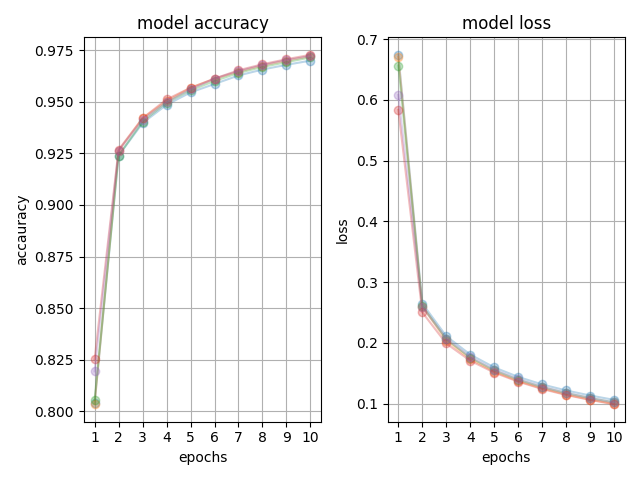
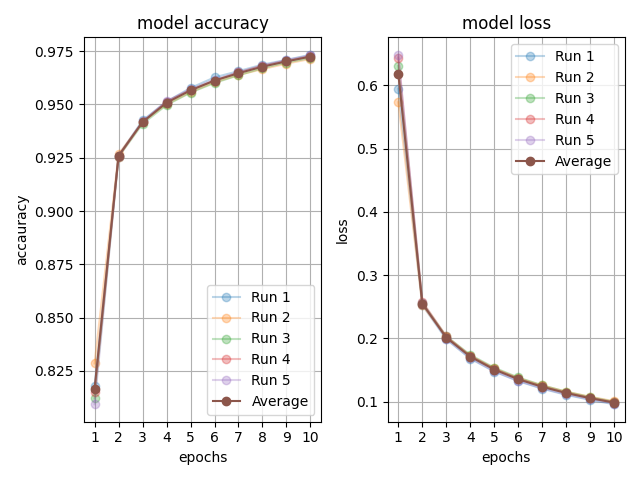
added benchmark of quacknet, pytorch and tensorflow

diff --git a/benchmarkFolder/MNISTBenchmark/MNISTBenchmark.py b/benchmarkFolder/MNISTBenchmark/MNISTBenchmark.py
@@ -1,0 +1,65 @@
+import matplotlib.pyplot as plt
+import numpy as np
+
+'''
+QuakNet:
+Mean accuaracy for QuackNet:
+[0.8214, 0.92508333, 0.94064167, 0.94961667, 0.9558,0.96025, 0.963675, 0.96654167, 0.969, 0.971125]
+
+Mean Loss for QuackNet:
+[0.60771607, 0.25617624, 0.20269678, 0.17275837, 0.15279125, 0.137877, 0.12608192, 0.11634947, 0.10815185, 0.10115307]
+
+
+Pytorch:
+Mean accuaracy for Pytorch:
+[53.59833333, 84.36466667, 88.71266667, 90.14666667, 90.99133333, 91.6, 92.11633333, 92.56966667, 92.99733333, 93.404]
+
+Mean Loss for Pytorch:
+[1.74560474, 0.58685295, 0.40313624, 0.34828176, 0.31788292, 0.29539778, 0.27666921, 0.26018988, 0.24526424, 0.23154016]
+
+
+Tensorflow:
+Mean Accuracy for Tensorflow:
+[77.44799971580505, 89.68966603279114, 91.2766683101654, 92.22633361816406, 92.93066620826721, 93.507000207901, 93.97866725921631, 94.3886661529541, 94.75233316421509, 95.05100011825562]
+
+Mean Loss for Tensorflow: 
+[0.886668610572815, 0.36731502413749695, 0.30530876517295835, 0.2715087890625, 0.24702780246734618, 0.22744983732700347, 0.2110085219144821, 0.1968971699476242, 0.18457053303718568, 0.1736813634634018]
+'''
+
+meanAccuaracyQuackNet = [0.8214, 0.92508333, 0.94064167, 0.94961667, 0.9558,0.96025, 0.963675, 0.96654167, 0.969, 0.971125]
+meanLossQuackNet = [0.60771607, 0.25617624, 0.20269678, 0.17275837, 0.15279125, 0.137877, 0.12608192, 0.11634947, 0.10815185, 0.10115307]
+
+meanAccuaracyPytorch = [53.59833333, 84.36466667, 88.71266667, 90.14666667, 90.99133333, 91.6, 92.11633333, 92.56966667, 92.99733333, 93.404]
+meanLossPytorch = [1.74560474, 0.58685295, 0.40313624, 0.34828176, 0.31788292, 0.29539778, 0.27666921, 0.26018988, 0.24526424, 0.23154016]
+
+meanAccuaracyTensorflow = [77.44799971580505, 89.68966603279114, 91.2766683101654, 92.22633361816406, 92.93066620826721, 93.507000207901, 93.97866725921631, 94.3886661529541, 94.75233316421509, 95.05100011825562]
+meanLossTensorflow = [0.886668610572815, 0.36731502413749695, 0.30530876517295835, 0.2715087890625, 0.24702780246734618, 0.22744983732700347, 0.2110085219144821, 0.1968971699476242, 0.18457053303718568, 0.1736813634634018]
+
+epochs = list(range(1, 11))
+figure, axis = plt.subplots(1, 2)
+
+meanAccuaracyQuackNet = np.array(meanAccuaracyQuackNet) * 100
+
+axis[0].plot(epochs, meanAccuaracyQuackNet, 'b',  marker="o", label=f'QuackNet')
+axis[0].plot(epochs, meanAccuaracyPytorch, 'r',  marker="x", label=f'Pytorch')
+axis[0].plot(epochs, meanAccuaracyTensorflow, 'g',  marker="s", label=f'Tensorflow')
+axis[0].set_xticks(epochs)
+axis[0].set_xlabel("epochs")
+axis[0].set_ylabel("accauracy")
+axis[0].set_title("model accuracy")
+axis[0].grid(True)
+axis[0].legend()
+
+axis[1].plot(epochs, meanLossQuackNet, 'b', marker="o", label=f'QuackNet')
+axis[1].plot(epochs, meanLossPytorch, 'r',  marker="x", label=f'Pytorch')
+axis[1].plot(epochs, meanLossTensorflow, 'g',  marker="s", label=f'Tensorflow')
+axis[1].set_xticks(epochs)
+axis[1].set_xlabel("epochs")
+axis[1].set_ylabel("loss")
+axis[1].set_title("model loss")
+axis[1].grid(True)
+axis[1].legend()
+
+
+plt.tight_layout()
+plt.show()

diff --git a/benchmarkFolder/MNISTBenchmark/pytorchBenchmark.py b/benchmarkFolder/MNISTBenchmark/pytorchBenchmark.py
@@ -1,0 +1,71 @@
+import torch
+import torch.nn as nn
+import torch.optim as optim
+import numpy as np
+from torch.utils.data import DataLoader, TensorDataset
+
+# Hyperparameters
+learning_rate = 0.01
+batch_size = 64
+epochs = 10
+
+train_images = np.load('benchmarkFolder/MNISTBenchmark/data/train_images.npy')  # Shape: (60000, 784)
+train_labels = np.load('benchmarkFolder/MNISTBenchmark/data/train_labels.npy')  # Shape: (60000, 10)
+
+train_images = torch.tensor(train_images, dtype=torch.float32)
+train_labels = torch.tensor(train_labels, dtype=torch.long)
+train_labels = torch.argmax(train_labels, axis=1)
+
+dataset = TensorDataset(train_images, train_labels)
+data_loader = DataLoader(dataset, batch_size=batch_size) 
+
+# Network model
+class QuackNetPyTorch(nn.Module):
+    def __init__(self):
+        super().__init__()
+        self.layer1 = nn.Linear(784, 128)
+        self.layer2 = nn.Linear(128, 64)
+        self.layer3 = nn.Linear(64, 10)
+        self.leaky_relu = nn.LeakyReLU(negative_slope=0.01)
+
+    def forward(self, x):
+        x = self.leaky_relu(self.layer1(x))
+        x = self.leaky_relu(self.layer2(x))
+        x = self.layer3(x)
+        return x
+
+allAc, allLoss = [], []
+for i in range(5):
+    # Model, loss, optimizer
+    model = QuackNetPyTorch()
+    criterion = nn.CrossEntropyLoss()
+    optimizer = optim.SGD(model.parameters(), lr=learning_rate)
+    accuracies, losses = [], []
+    # Training loop
+    for epoch in range(1, epochs + 1):
+        model.train()
+        total_loss = 0
+        correct = 0
+        for data, target in data_loader:
+            optimizer.zero_grad()
+            output = model(data)
+            loss = criterion(output, target)
+            loss.backward()
+            optimizer.step()
+
+            total_loss += loss.item()
+            pred = output.argmax(dim=1)
+            correct += pred.eq(target).sum().item()
+
+        avg_loss = total_loss / len(data_loader)
+        accuracy = 100. * correct / len(train_labels)
+        print(f"Run {i+1}, Epoch {epoch}: Loss = {avg_loss:.4f}, Accuracy = {accuracy:.2f}%")
+        accuracies.append(accuracy)
+        losses.append(avg_loss)
+    allAc.append(accuracies)
+    allLoss.append(losses)
+
+meanAccuracy = np.mean(allAc, axis=0)
+meanLoss = np.mean(allLoss, axis=0)
+print(list(meanAccuracy))
+print(list(meanLoss))

diff --git a/benchmarkFolder/MNISTBenchmark/tensorflowBenchmark.py b/benchmarkFolder/MNISTBenchmark/tensorflowBenchmark.py
@@ -1,0 +1,67 @@
+#### Change virtual enviroment to 3.11.9 to use as tensorflow doesnt work on 3.13.1
+
+import numpy as np
+import tensorflow as tf
+from tensorflow.keras import layers, models, optimizers, losses
+from tensorflow.data import Dataset
+
+# Hyperparameters
+learning_rate = 0.01
+batch_size = 64
+epochs = 10
+runs = 5
+
+# Load data
+train_images = np.load('benchmarkFolder/MNISTBenchmark/data/train_images.npy')  # (60000, 784)
+train_labels = np.load('benchmarkFolder/MNISTBenchmark/data/train_labels.npy')  # (60000, 10)
+train_labels = np.argmax(train_labels, axis=1)  # convert one-hot to class indices
+
+# Create tf.data.Dataset for batching
+dataset = Dataset.from_tensor_slices((train_images, train_labels))
+dataset = dataset.batch(batch_size)
+
+all_accuracies = []
+all_losses = []
+
+for run in range(runs):
+    # Build model (same architecture)
+    model = models.Sequential([
+        layers.InputLayer(input_shape=(784,)),
+        layers.Dense(128),
+        layers.LeakyReLU(negative_slope=0.01),
+        layers.Dense(64),
+        layers.LeakyReLU(negative_slope=0.01),
+        layers.Dense(10, activation='softmax')
+    ])
+
+    # Compile model
+    model.compile(
+        optimizer=optimizers.SGD(learning_rate=learning_rate),
+        loss=losses.SparseCategoricalCrossentropy(),
+        metrics=['accuracy']
+    )
+
+    run_accuracies = []
+    run_losses = []
+
+    for epoch in range(epochs):
+        # Train for one epoch
+        history = model.fit(dataset, epochs=1, verbose=0)
+
+        loss = history.history['loss'][0]
+        accuracy = history.history['accuracy'][0] * 100  # convert to percentage
+
+        print(f"Run {run+1}, Epoch {epoch+1}: Loss = {loss:.4f}, Accuracy = {accuracy:.2f}%")
+
+        run_accuracies.append(accuracy)
+        run_losses.append(loss)
+
+    all_accuracies.append(run_accuracies)
+    all_losses.append(run_losses)
+
+# Compute mean accuracy and loss across runs per epoch
+mean_accuracy = np.mean(all_accuracies, axis=0)
+mean_loss = np.mean(all_losses, axis=0)
+
+print("Mean Accuracy per epoch:", list(mean_accuracy))
+print("Mean Loss per epoch:", list(mean_loss))

diff --git a/neuralLibrary/main.py b/neuralLibrary/main.py
@@ -93,24 +93,32 @@ class Network(Optimisers, Initialisers, writeAndRead, CNNModel):
         elif(self.lossFunction == CrossEntropyLossFunction):
             raise ValueError(f"Cross Entropy loss function requires Softmax output layer") #if so stops the user
     
-    def drawGraphs(self, averageAccuracy, averageLoss):
-        epochs = list(range(1, len(averageAccuracy[0]) + 1))
+    def drawGraphs(self, allAccuracy, allLoss):
+        epochs = list(range(1, len(allAccuracy[0]) + 1))
         figure, axis = plt.subplots(1, 2)
-        for i in range(len(averageAccuracy)):
-            axis[0].plot(epochs, averageAccuracy[i], marker="o", label=f'Run {i+1}', alpha=0.3)
+        meanAccuracy = np.mean(allAccuracy, axis=0)
+        meanLoss = np.mean(allLoss, axis=0)
+
+        for i in range(len(allAccuracy)):
+            axis[0].plot(epochs, allAccuracy[i], marker="o", label=f'Run {i+1}', alpha=0.3)
+        axis[0].plot(epochs, meanAccuracy, marker="o", label=f'Average', alpha=1)
         axis[0].set_xticks(epochs)
         axis[0].set_xlabel("epochs")
         axis[0].set_ylabel("accauracy")
         axis[0].set_title("model accuracy")
         axis[0].grid(True)
+        axis[0].legend()
 
-        for i in range(len(averageLoss)):
-            axis[1].plot(epochs, averageLoss[i], marker="o", label=f'Run {i+1}', alpha=0.3)
+        for i in range(len(allLoss)):
+            axis[1].plot(epochs, allLoss[i], marker="o", label=f'Run {i+1}', alpha=0.3)
+        axis[1].plot(epochs, meanLoss, marker="o", label=f'Average', alpha=1)
         axis[1].set_xticks(epochs)
         axis[1].set_xlabel("epochs")
         axis[1].set_ylabel("loss")
         axis[1].set_title("model loss")
         axis[1].grid(True)
+        axis[1].legend()
+
 
         plt.tight_layout()
         plt.show()

diff --git a/benchmarkFolder/MNISTBenchmark/mnistExample.py b/benchmarkFolder/MNISTBenchmark/mnistExample.py
@@ -9,7 +9,7 @@ train_labels = np.load('benchmarkFolder/MNISTBenchmark/data/train_labels.npy')  
 
 from neuralLibrary.main import Network
 
-def run(epochs, steps, skipInput):
+def run(epochs, steps, skipInput = True):
     learningRate = 0.01
     n = Network(learningRate=learningRate, lossFunc="cross", optimisationFunc="batches", useBatches=True, batchSize=64)
     n.addLayer(784, "relu")
@@ -35,12 +35,12 @@ def run(epochs, steps, skipInput):
         n.write()
         accuracies.append(accuaracy)
         losses.append(averageLoss)
-    allAc.append(accuracies)
-    allLos.append(losses)
+    allAccuracies.append(accuracies)
+    allLosses.append(losses)
 
     n.write()
 
-allAc, allLos = [], []
+allAccuracies, allLosses = [], []
 for _ in range(5):
     run(10, 1, False)
-Network.drawGraphs(None, allAc, allLos)
+Network.drawGraphs(None, allAccuracies, allLosses)

diff --git a/README.md b/README.md
@@ -37,6 +37,8 @@ This project was developed to:
     Added support for batching, stochastic gradient descent and gradient descent
 - [X] **Convolutional Neural Network**
     Implemented kernels, pooling and dense layers for Convolutional Neural Network
+- [X] **Visualisation tools**  
+    Added support for visualising training, such as loss and accuracy graphs
 - [ ] **Benchmark against PyTorch/TensorFlow**
     Benchmark against popular machine learning framworks on MNIST library
 - [ ] **Skin Lesion detector**    
@@ -45,8 +47,6 @@ This project was developed to:
     Implement the Adam optimiser to improve training performance and convergence
 - [ ] **Additional activation functions**  
     implement advanced activation functions (eg. GELU and Swish)
-- [ ] **Visualisation tools**  
-    add support for visualising training, such as loss and accuracy graphs
 - [ ] **Data augmentation**
     add data augmentation such as flipping, rotation and cropping
 
@@ -86,14 +86,14 @@ print(f"Average loss: {averageLoss}")
 
 ## Code structure
 
-## Neural Network Class
+### Neural Network Class
 -   **Purpose** Handles fully connected layers for standard neural network
 -   **Key Componets:**
     -   Layers: Dense Layer
     -   Functions: Forward propagation, backpropgation
     -   Optimisers: SGD, GD, GD using batching
 
-## Convolutional Neural Network Class
+### Convolutional Neural Network Class
 -   **Purpose** Specialised for image data processing using covolutional layers
 -   **Key Components:**
     -   Layers: Convolutional, pooling, dense and activation layers
@@ -104,7 +104,7 @@ print(f"Average loss: {averageLoss}")
 
 The library was benchmarked on the MNIST dataset using the following setup:
 
--   **Model Architecture:** 784 (input) \u2192 128 \u2192 64 \u2192 10 (output)
+-   **Model Architecture:** 784 (input) → 128 → 64 → 10 (output)
 -   **Activation Function:** Leaky Relu for input and hidden layer, and softmax for hidden layer
 -   **Optimiser:** Batches
 -   **Batch Size:** 64
@@ -112,8 +112,8 @@ The library was benchmarked on the MNIST dataset using the following setup:
 -   **Epochs** 10
 
 ### Results:
--   **Training Accauracy:** 97.5%
--   **Average Loss:** 0.1
+-   **Training Accauracy:** 97.1%
+-   **Average Loss:** 0.10
 -   **Training Time:** 30 seconds per epoch
 
 ### Code:
@@ -122,6 +122,41 @@ The code for this benchmark can be found [here](benchmarkFolder/MNISTBenchmark/m
 
 ### Training Performance
 
-Below is the graph showing the training accauracy over 10 epochs, across 5 runs:
+Below is the graph showing the training accauracy and loss over 10 epochs, across 5 runs:
 
 ![Training Accuaracy](benchmarkFolder/MNISTBenchmark/benchmark.png)
+
+## Benchmark Against Pytorch and Tensorflow
+
+The library was benchmarked on the MNIST dataset using the following setup:
+
+-   **Model Architecture:** 784 (input) → 128 → 64 → 10 (output)
+-   **Activation Function:** Leaky Relu for input and hidden layer, and softmax for hidden layer
+-   **Optimiser:** Batches
+-   **Batch Size:** 64
+-   **Learning rate:** 0.01
+-   **Epochs** 10
+
+### Results For QuackNet:
+-   **Training Accauracy:** 97.1%
+-   **Average Loss:** 0.10
+
+### Results For Pytorch:
+-   **Training Accauracy:** 93.4%
+-   **Average Loss:** 0.23
+
+### Results For Tensorflow:
+-   **Training Accauracy:** 95.1%
+-   **Average Loss:** 0.17
+
+### Code:
+
+The code for the QuackNet benchmark can be found [here](benchmarkFolder/MNISTBenchmark/mnistExample.py)
+The code for the Pytorch benchmark can be found [here](benchmarkFolder/MNISTBenchmark/pytorchBenchmark.py)
+The code for the Tensorflow benchmark can be found [here](benchmarkFolder/MNISTBenchmark/tensorflowBenchmark.py)
+
+### Training Performance
+
+Below is the graph showing the training accauracy and loss over 10 epochs, across 5 runs:
+
+![Training Accuaracy](benchmarkFolder/MNISTBenchmark/frameworkBenchmark.png)
